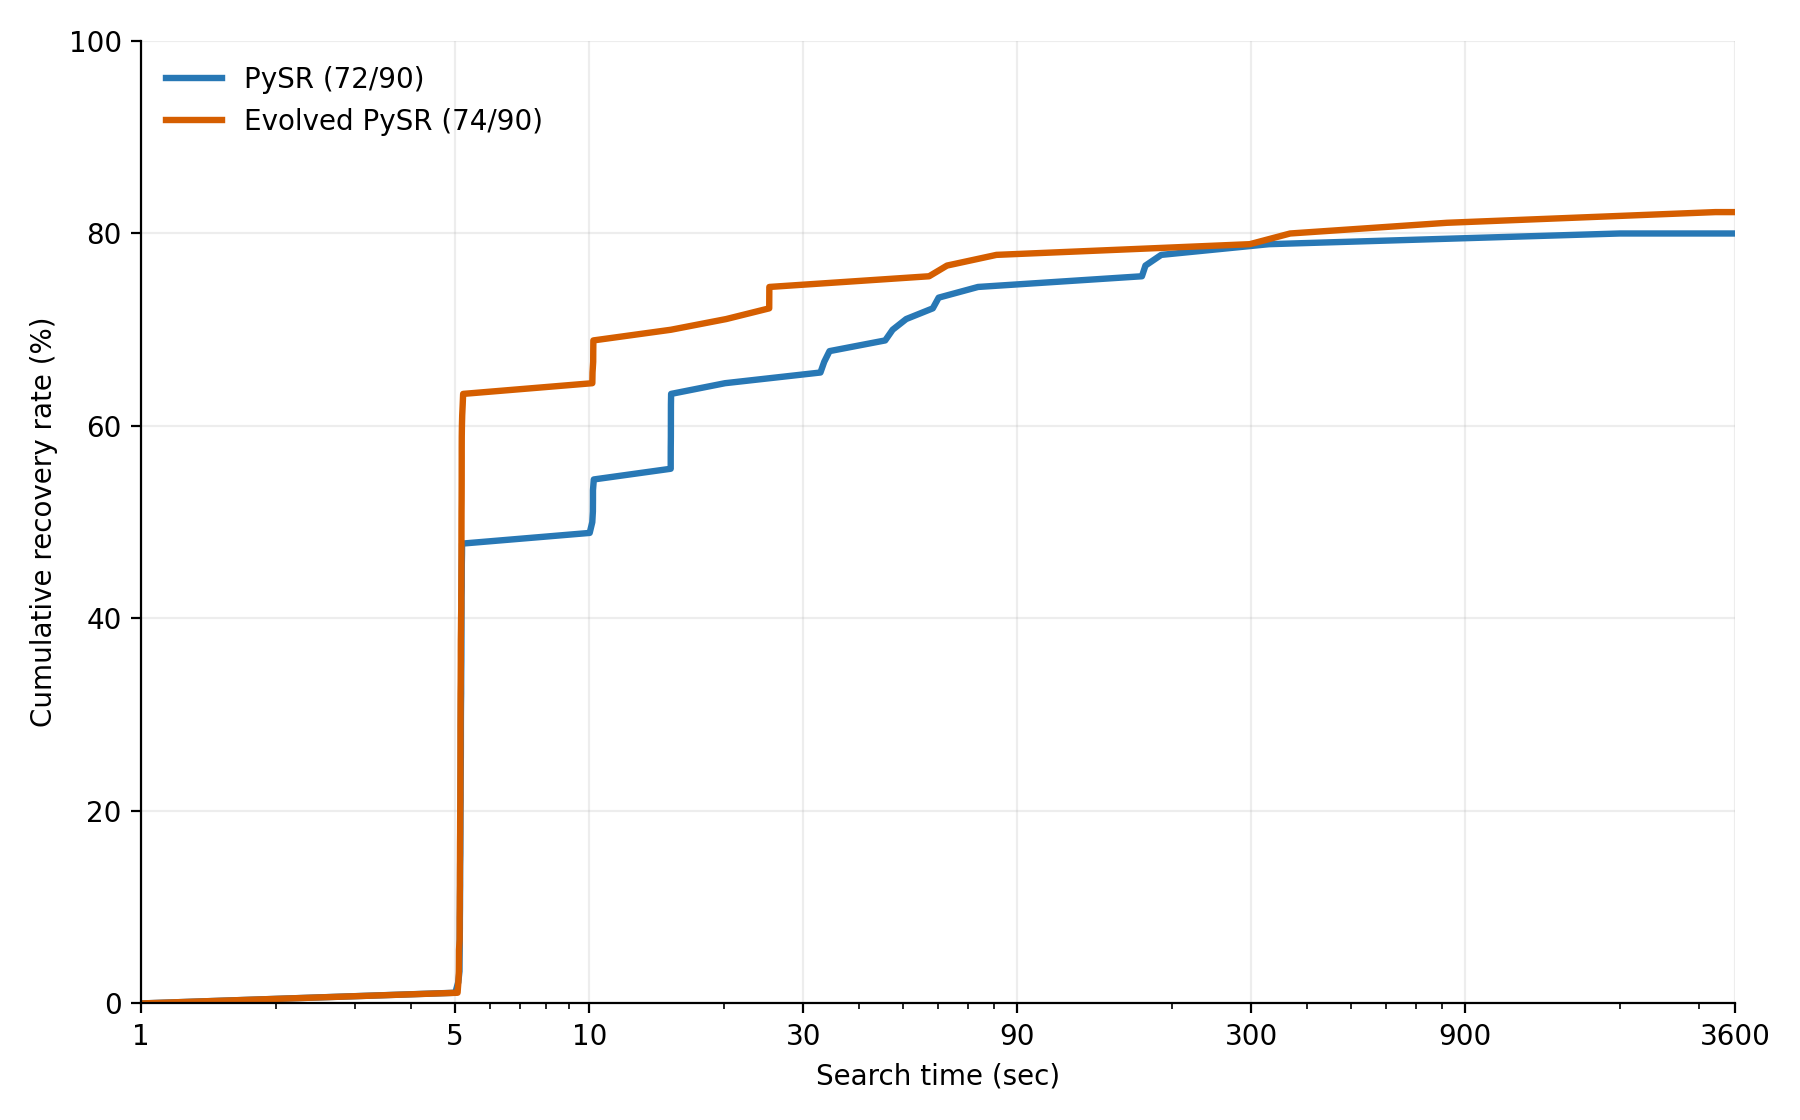
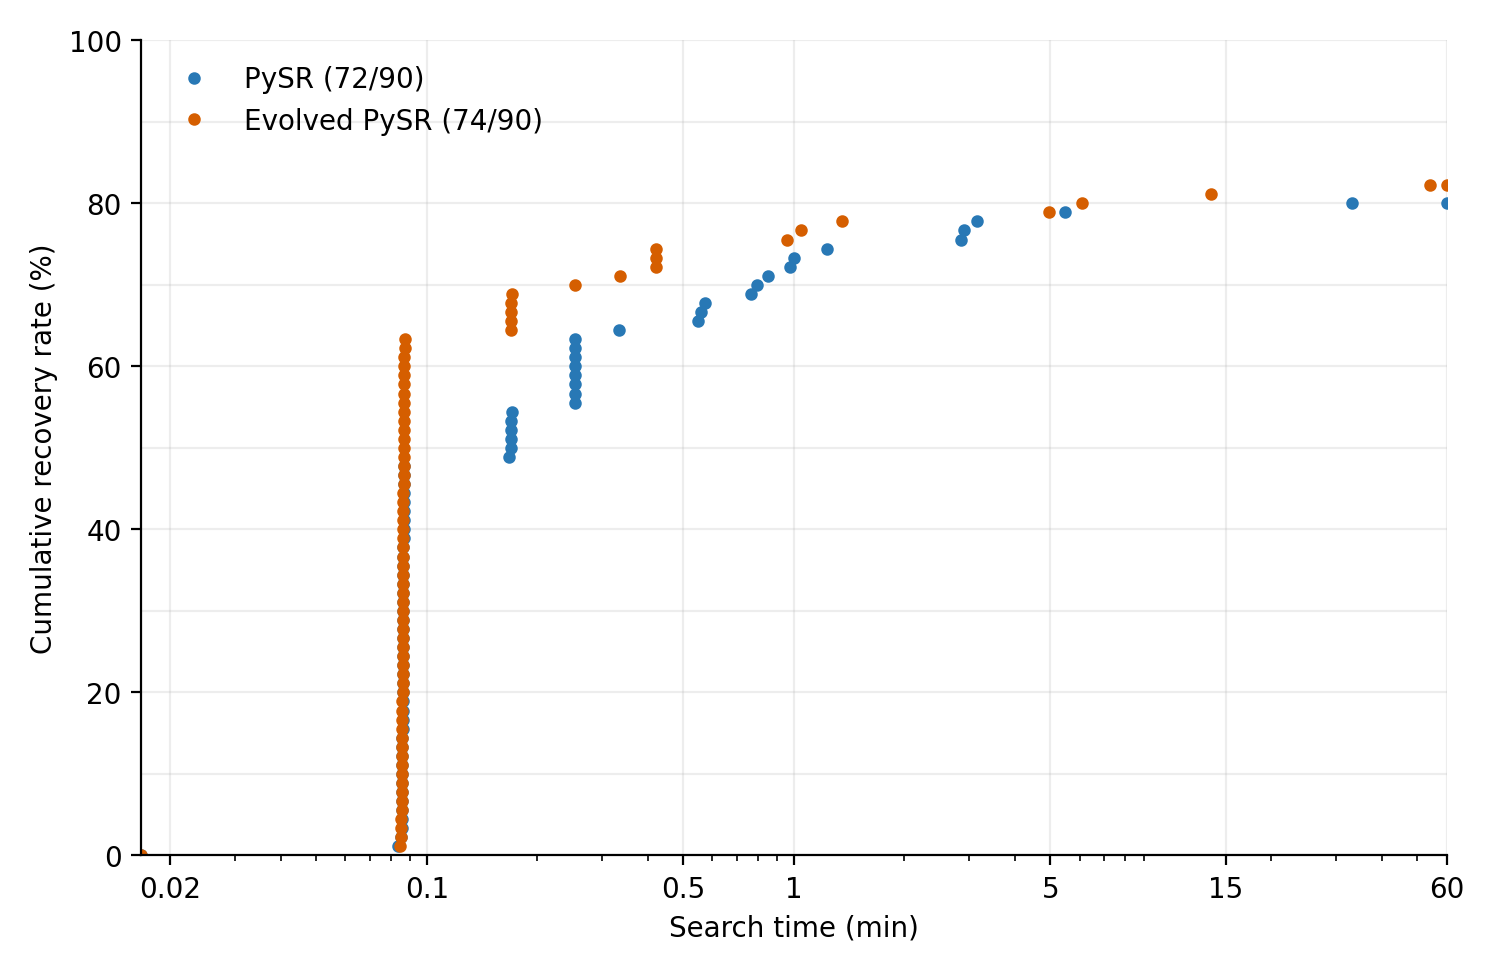
Show recovery points in minutes and match reference figure size

diff --git a/figures/plot_srbench2_spliced_portfolio.py b/figures/plot_srbench2_spliced_portfolio.py
@@ -7,7 +7,7 @@ from pathlib import Path
 import matplotlib
 matplotlib.use('Agg')
 import matplotlib.pyplot as plt
-from matplotlib.ticker import ScalarFormatter
+from matplotlib.ticker import StrMethodFormatter, FixedLocator, NullFormatter
 
 
 def main():
@@ -19,9 +19,10 @@ def main():
     if len(records) != 180:
         raise ValueError('Expected 180 reviewed trials')
     a.output_dir.mkdir(parents=True, exist_ok=True)
-    fig, ax = plt.subplots(figsize=(9,5.6))
+    # Match the reference overall_linear.pdf page dimensions (points / 72).
+    fig, ax = plt.subplots(figsize=(537.890625/72,350.1809375/72))
     table = []
-    for method, label, color, style in [('Baseline','PySR','#2878B5','-'),('709715','Evolved PySR','#D55E00','-')]:
+    for method, label, color in [('Baseline','PySR','#2878B5'),('709715','Evolved PySR','#D55E00')]:
         rows = [r for r in records if r['method']==method]
         assert len(rows)==90
         events = Counter(r['first_solve_budget_seconds'] for r in rows if r['final_positive'])
@@ -30,13 +31,20 @@ def main():
             assert 1 <= t <= 3600
             n += count; xs.append(t); ys.append(n/90*100)
         xs.append(3600); ys.append(n/90*100)
-        ax.plot(xs, ys, lw=2.3, color=color, ls=style,
+        ax.plot([t/60 for t in xs], ys, marker="o", markersize=3.5, color=color, linestyle="none",
                 label=f'{label} ({n}/90)')
         table.extend(dict(method=method, seconds=t, solve_rate_percent=y) for t,y in zip(xs,ys))
-    ax.set(xscale='log', xlim=(1,3600), ylim=(0,100), xlabel='Search time (sec)',
+    ax.set(xscale='log', xlim=(1/60,60), ylim=(0,100), xlabel='Search time (min)',
            ylabel='Cumulative recovery rate (%)')
-    ax.set_xticks([1,5,10,30,90,300,900,3600]); ax.xaxis.set_major_formatter(ScalarFormatter())
+    ax.set_xticks([0.02,0.1,0.5,1,5,15,60]); ax.xaxis.set_major_formatter(StrMethodFormatter("{x:g}"))
+    ax.xaxis.set_minor_formatter(NullFormatter())
+    ax.set_yticks(range(0,101,20))
+    ax.yaxis.set_minor_locator(FixedLocator(range(10,100,20)))
+    ax.yaxis.set_minor_formatter(NullFormatter())
+    ax.tick_params(axis="y", which="minor", length=0)
     ax.grid(alpha=.22)
+    ax.grid(axis="y", which="minor", alpha=.22)
+    ax.set_axisbelow(True)
     ax.spines[['top','right']].set_visible(False); ax.legend(frameon=False,loc='upper left')
     fig.tight_layout()
     for ext in ['png','pdf']: fig.savefig(a.output_dir/f'solve_rate.{ext}',dpi=200)
@@ -45,7 +53,7 @@ def main():
         w=csv.DictWriter(f,fieldnames=list(table[0])); w.writeheader(); w.writerows(table)
     (a.output_dir/'README.md').write_text(f'# Synthetic SRBench2 portfolio plot\n\nSource: `{a.review_dir}`.\n\n'
         'New first restarts replace archived first restarts; later fits are reused and timestamps shifted. '
-        'Lines connect observed recovery points on a logarithmic time axis. '
+        'Dots show recovery points without connecting lines on a logarithmic time axis in minutes; CSV times remain in seconds. '
         'Final totals are computed, never fixed to historical counts. See the review README for scoring and timing caveats.\n')
     print(a.output_dir/'solve_rate.png')
 

diff --git a/figures/srbench2_1m_spliced_snap5/README.md b/figures/srbench2_1m_spliced_snap5/README.md
@@ -2,4 +2,4 @@
 
 Source: `runs/srbench2_9-17_1m_spliced_terra_recovery`.
 
-New first restarts replace archived first restarts; later fits are reused and timestamps shifted. Lines connect observed recovery points on a logarithmic time axis. Final totals are computed, never fixed to historical counts. See the review README for scoring and timing caveats.
+New first restarts replace archived first restarts; later fits are reused and timestamps shifted. Dots show recovery points without connecting lines on a logarithmic time axis in minutes; CSV times remain in seconds. Final totals are computed, never fixed to historical counts. See the review README for scoring and timing caveats.
